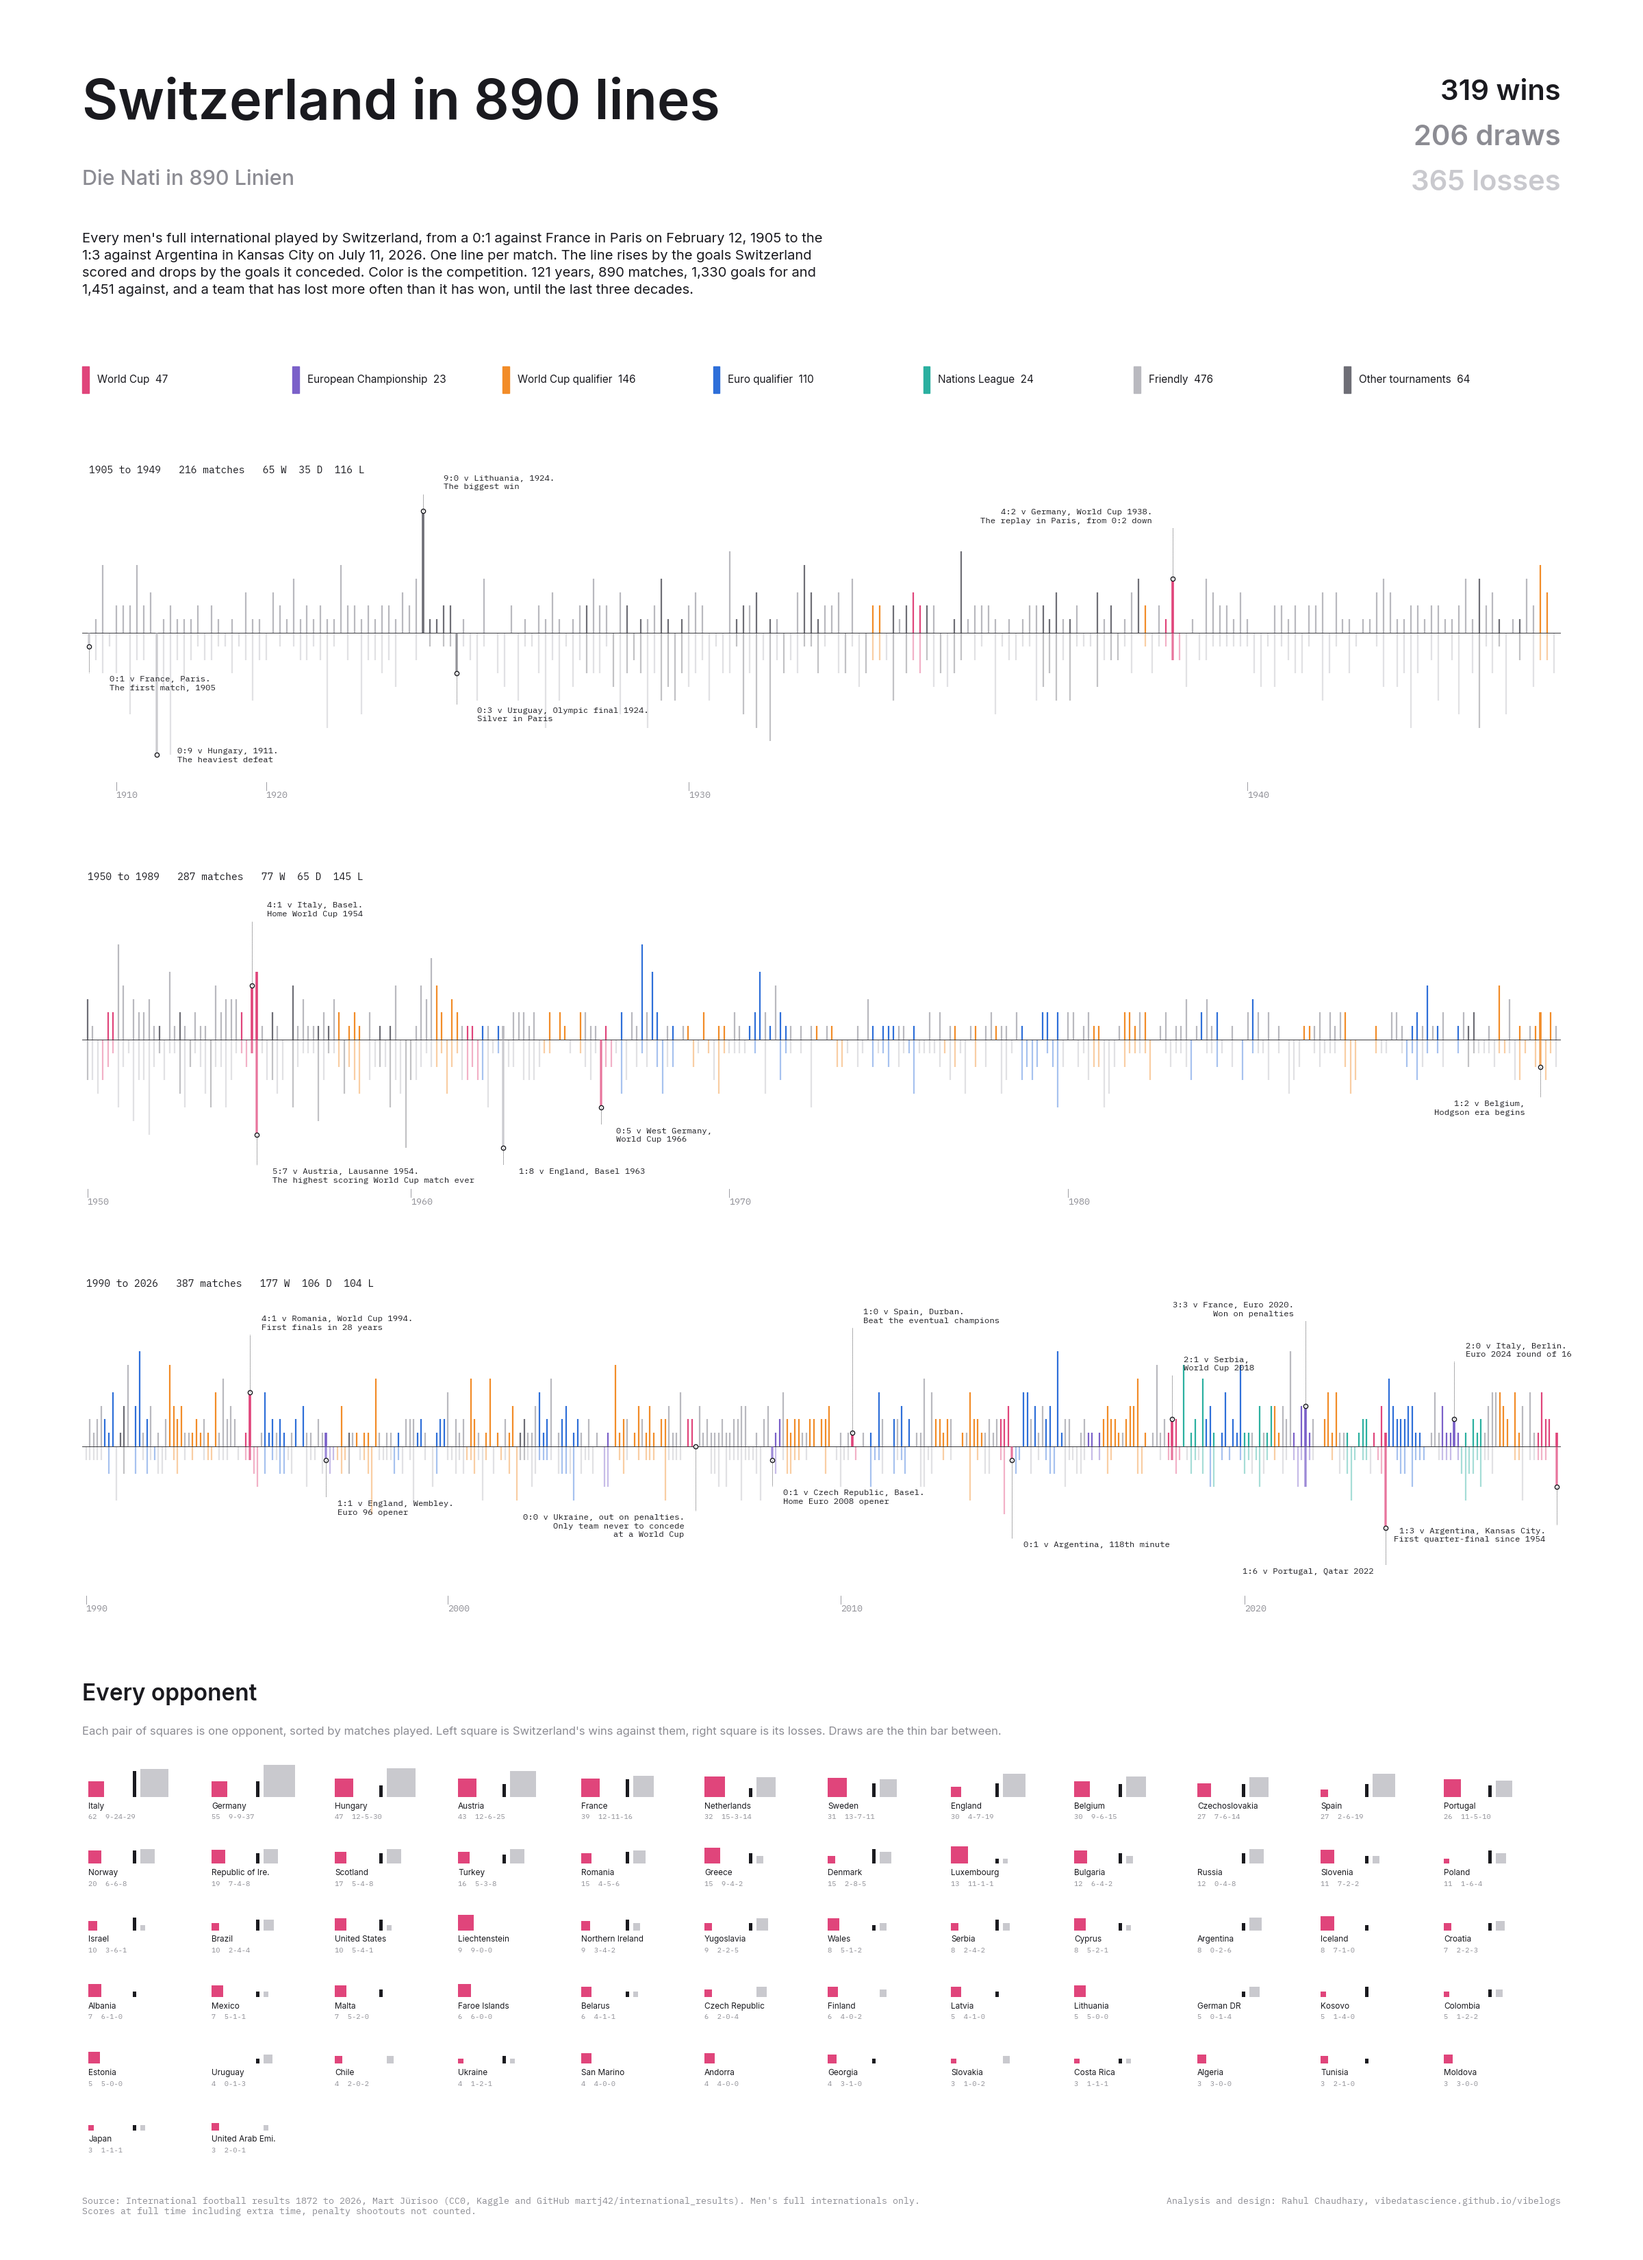
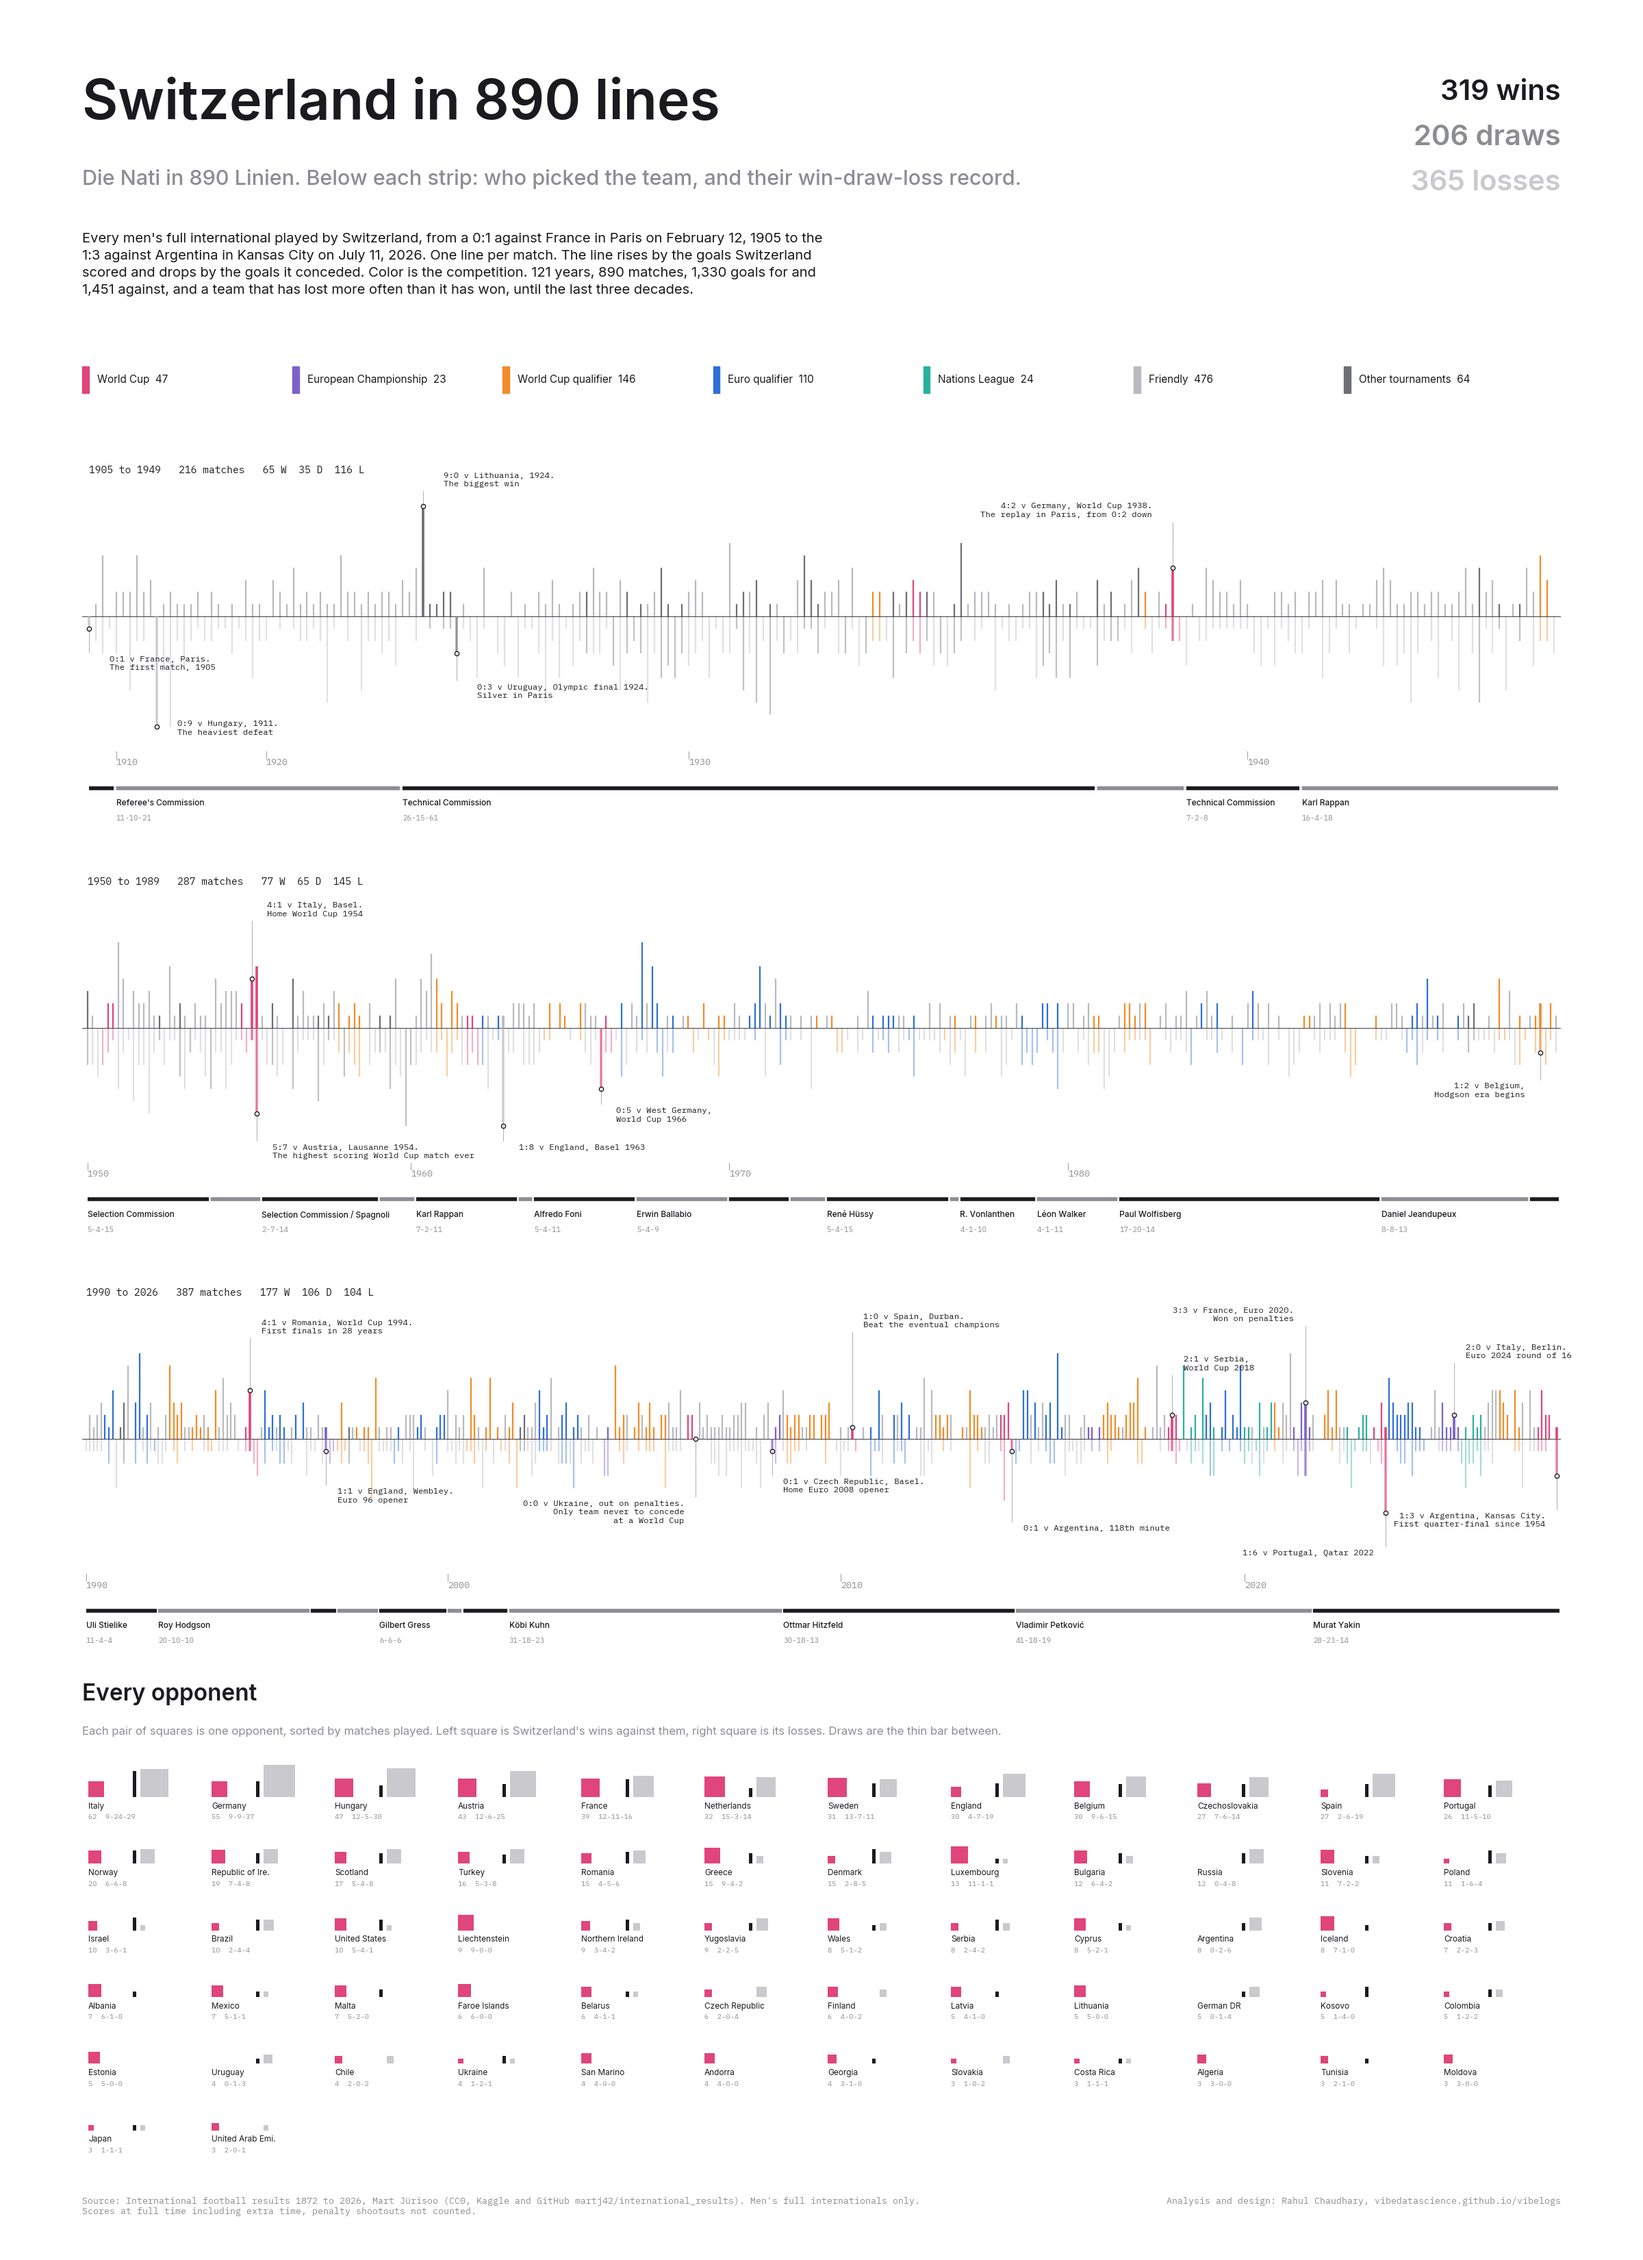
890 lines: coach bands and records

diff --git a/posts/2026-09-15-switzerland-in-890-lines/index.html b/posts/2026-09-15-switzerland-in-890-lines/index.html
@@ -57,6 +57,23 @@ footer a{color:var(--muted)}
 
 <p>The glyph grid at the bottom borrows the square-pair form Hahn+Zimmermann used for their Women in Politics poster, which took silver at the Swiss Viz Awards 2025. Each opponent gets two squares: the pink one is Swiss wins against them, the grey one is Swiss losses, and the thin bar between is draws. Italy, Germany and Hungary have been the most frequent opponents, and against all three the grey square is bigger.</p>
 
+<h2>Who picked the team</h2>
+<p>Under each strip is a band of the people who selected the side, with their win-draw-loss record computed from the same match list. For the first half century that was mostly a committee. The Referee's Commission ran the team from 1910 to 1924 and the Technical Commission from 1924 to 1937, and Karl Rappan, the Austrian who invented the Swiss bolt defence, moves in and out four times between 1937 and 1963. The full-time single coach only becomes the norm from Alfredo Foni in 1964. Every coach since Uli Stielike in 1989 has averaged more than 1.5 points per match; nobody before him except Rappan managed 1.4.</p>
+
+<table>
+<tr><th>Coach</th><th class="n">From</th><th class="n">Matches</th><th class="n">W-D-L</th><th class="n">Points per match</th></tr>
+<tr><td>Technical Commission</td><td class="n">1924</td><td class="n">102</td><td class="n">26-15-61</td><td class="n">0.91</td></tr>
+<tr><td>Karl Rappan</td><td class="n">1942</td><td class="n">38</td><td class="n">16-4-18</td><td class="n">1.37</td></tr>
+<tr><td>Paul Wolfisberg</td><td class="n">1981</td><td class="n">51</td><td class="n">17-20-14</td><td class="n">1.39</td></tr>
+<tr><td>Uli Stielike</td><td class="n">1989</td><td class="n">25</td><td class="n">13-5-7</td><td class="n">1.76</td></tr>
+<tr><td>Roy Hodgson</td><td class="n">1992</td><td class="n">40</td><td class="n">20-10-10</td><td class="n">1.75</td></tr>
+<tr><td>Köbi Kuhn</td><td class="n">2001</td><td class="n">72</td><td class="n">31-18-23</td><td class="n">1.54</td></tr>
+<tr><td>Ottmar Hitzfeld</td><td class="n">2008</td><td class="n">61</td><td class="n">30-18-13</td><td class="n">1.77</td></tr>
+<tr><td>Vladimir Petković</td><td class="n">2014</td><td class="n">78</td><td class="n">41-18-19</td><td class="n">1.81</td></tr>
+<tr><td>Murat Yakin</td><td class="n">2021</td><td class="n">65</td><td class="n">28-23-14</td><td class="n">1.65</td></tr>
+</table>
+<p>Tenure dates come from RSSSF and worldfootball.net; matches are assigned to a coach by date, so records differ by a game or two from official counts where a tenure started or ended mid-window.</p>
+
 <h2>How it was made</h2>
 <p>The dataset is the results.csv file from martj42/international_results on GitHub, mirrored on Kaggle, filtered to matches with Switzerland as home or away team. Scores are at full time including extra time, so the two shootout wins in 2021 and 2026 appear as draws. Tournaments were grouped into six buckets plus an "other" bucket for the Central European International Cup, the Olympics and one-off invitationals. The poster is one matplotlib figure: three axes for the strips, with one line drawn per match, and one equal-aspect axis for the glyph grid so the squares stay square.</p>
 
